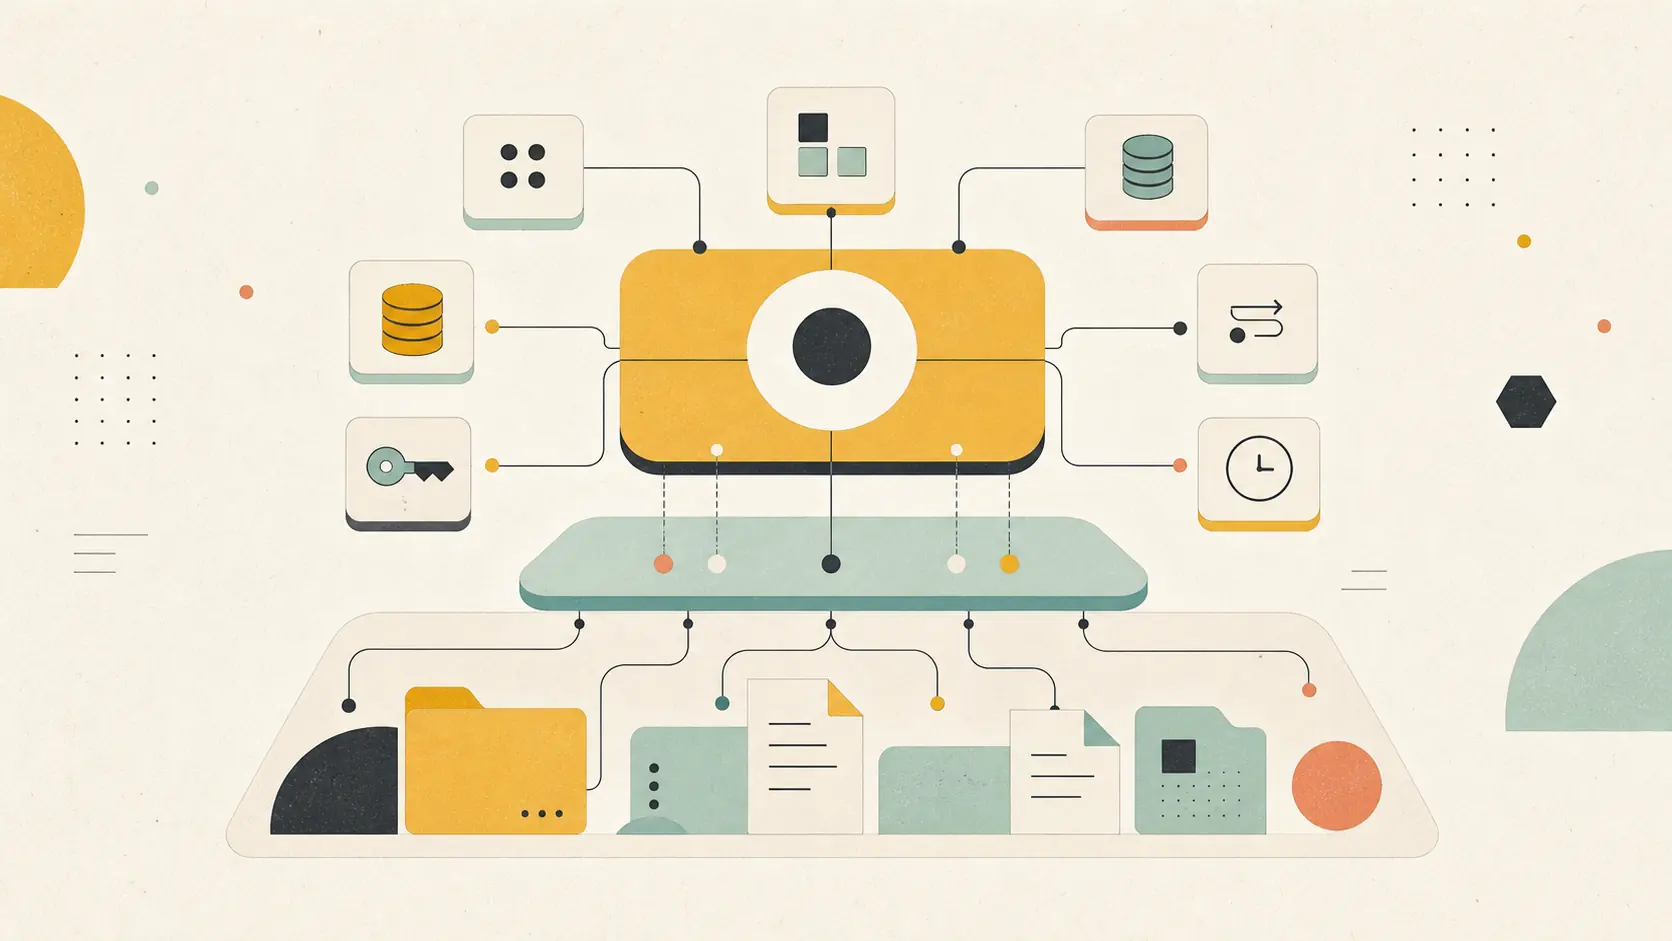
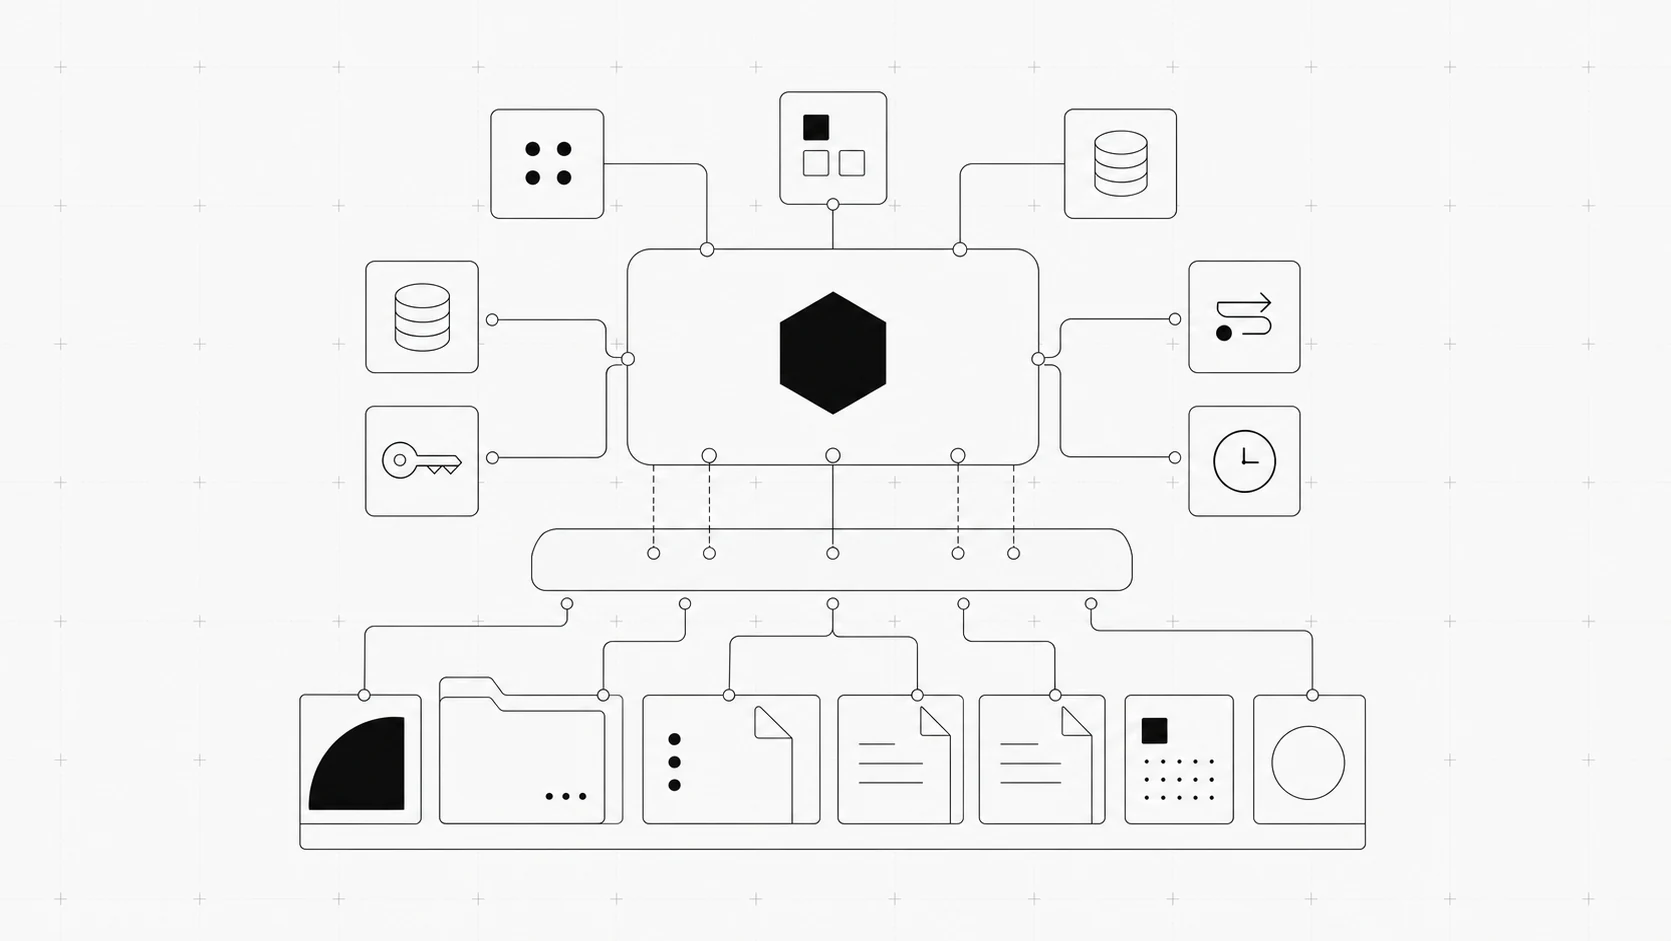
feat(docs): unify landing illustrations

diff --git a/docs/app/components/landing/Paths.vue b/docs/app/components/landing/Paths.vue
@@ -22,7 +22,7 @@ import { landingLanes } from "./content"
           class="group flex min-w-0 flex-col focus-visible:z-10 focus-visible:outline-2 focus-visible:outline-offset-[-2px] focus-visible:outline-primary"
           :class="index === 1 ? 'border-t border-default lg:border-t-0 lg:border-l' : ''"
         >
-          <div class="aspect-[16/9] overflow-hidden border-b border-default bg-[#f4eddf]">
+          <div class="aspect-[16/9] overflow-hidden border-b border-default bg-default">
             <img
               :src="lane.image"
               alt=""
@@ -30,7 +30,7 @@ import { landingLanes } from "./content"
               height="941"
               loading="lazy"
               decoding="async"
-              class="size-full object-cover transition-transform duration-500 ease-out group-hover:scale-[1.015] motion-reduce:transform-none motion-reduce:transition-none"
+              class="size-full object-cover transition-transform duration-500 ease-out group-hover:scale-[1.015] dark:invert motion-reduce:transform-none motion-reduce:transition-none"
             >
           </div>
 

diff --git a/docs/app/components/landing/Hero.vue b/docs/app/components/landing/Hero.vue
@@ -25,7 +25,7 @@
           height="1024"
           fetchpriority="high"
           decoding="async"
-          class="w-full border border-default bg-[#f4eddf] object-cover"
+          class="w-full border border-default bg-default object-cover dark:invert"
         >
       </div>
     </div>
